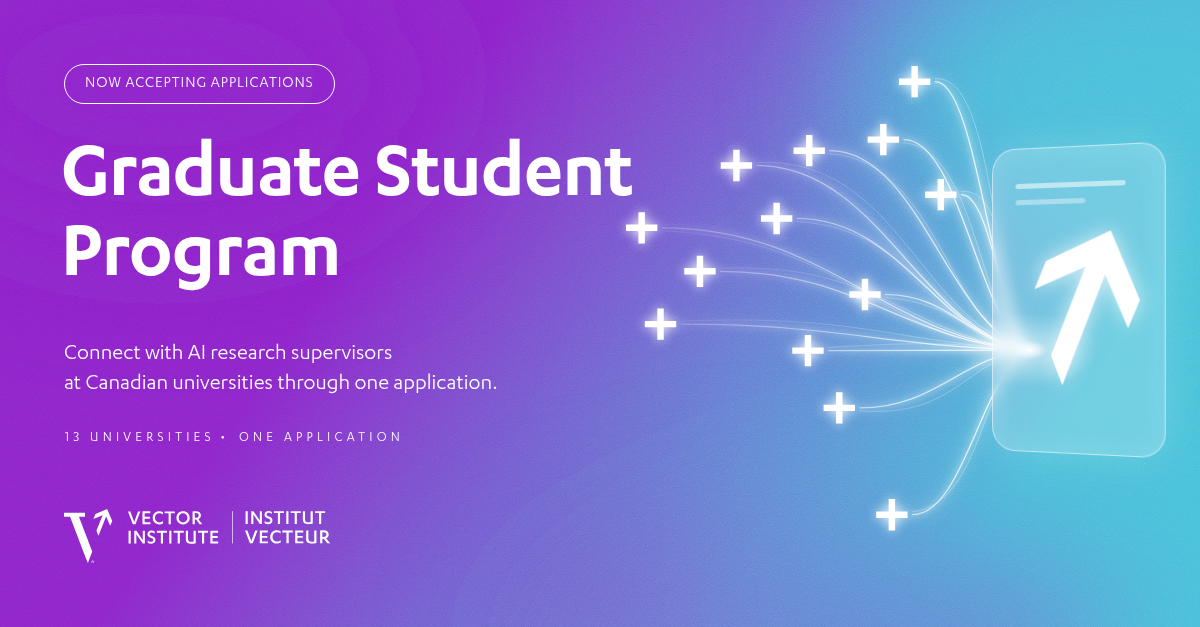
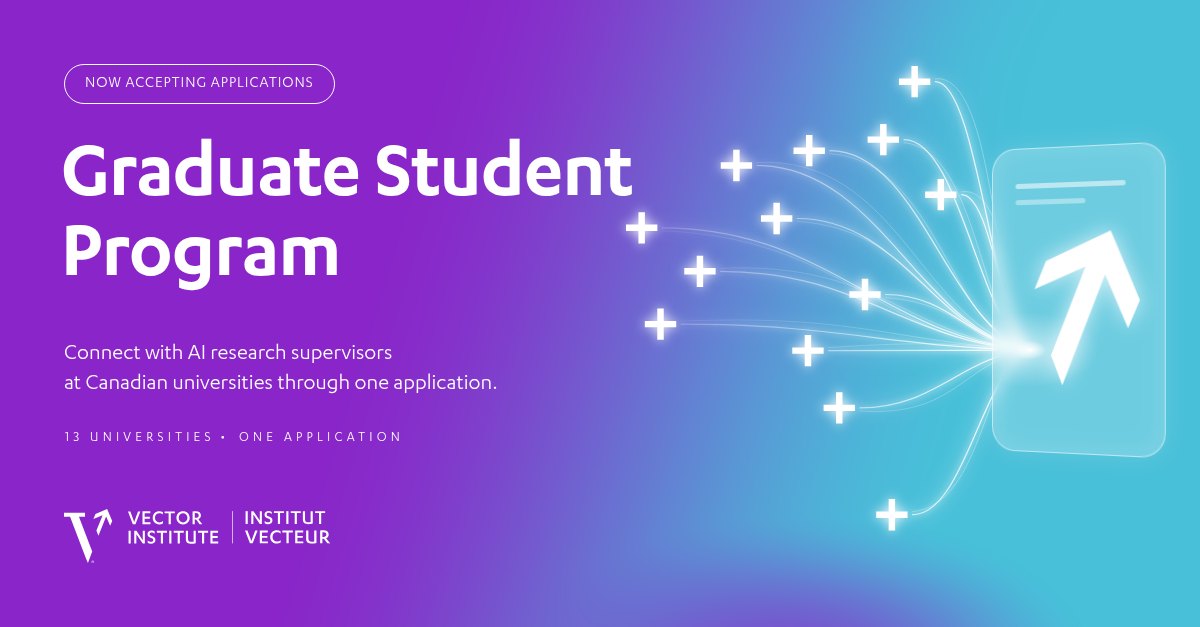
Use exact brand violet/turquoise in Graduate Student Program graphic
The SVG grain overlay and linear-RGB blur shifted the gradient ends to
~#9226CC / ~#50C1DB. The background is now rendered by bg.py as exact
mixes of #8A25C9 and #48C0D9, so solid areas match the brand hex values.

Claude-Session: https://claude.ai/code/session_012MwK1vmEpNzT6vtmv9guo8

diff --git a/graduate-student-program/graphic.html b/graduate-student-program/graphic.html
@@ -5,7 +5,7 @@
 *{margin:0;padding:0;box-sizing:border-box}
 html,body{width:1200px;height:627px;overflow:hidden;background:#8A25C9}
 #c{position:relative;width:1200px;height:627px;font-family:Karbon,sans-serif;color:#fff;overflow:hidden}
-svg.bg,svg.fx{position:absolute;inset:0}
+.bg,svg.fx{position:absolute;inset:0}
 .pill{position:absolute;left:64px;top:64px;height:40px;padding:0 20px;border:1.5px solid #fff;border-radius:20px;
   display:flex;align-items:center;font-size:16px;letter-spacing:.06em;font-weight:400}
 h1{position:absolute;left:61px;top:140px;font-weight:600;font-size:82px;line-height:.98;letter-spacing:-.012em}
@@ -16,28 +16,11 @@ h1{position:absolute;left:61px;top:140px;font-weight:600;font-size:82px;line-hei
 .stage{position:absolute;left:992px;top:150px;width:176px;height:300px;perspective:900px}
 .card{width:100%;height:100%;border-radius:24px;background:rgba(255,255,255,.2);
   border:1.5px solid rgba(255,255,255,.55);transform:rotateY(-16deg);transform-origin:0 50%;
-  box-shadow:0 0 40px rgba(255,255,255,.18), inset 0 0 30px rgba(255,255,255,.12);backdrop-filter:blur(6px)}
+  box-shadow:0 0 22px rgba(255,255,255,.14), inset 0 0 30px rgba(255,255,255,.12);backdrop-filter:blur(6px)}
 .card .ln{position:absolute;left:24px;height:5px;border-radius:3px;background:rgba(255,255,255,.55)}
 .card svg{position:absolute;left:44px;top:82px;width:106px;filter:drop-shadow(0 0 10px rgba(255,255,255,.7))}
 </style></head><body><div id="c">
-<svg class="bg" viewBox="0 0 1200 627" width="1200" height="627">
- <defs>
-  <linearGradient id="g" x1="0" y1="0" x2="1" y2="0.35">
-   <stop offset="0" stop-color="#8A25C9"/><stop offset=".38" stop-color="#8A25C9"/><stop offset="1" stop-color="#48C0D9"/>
-  </linearGradient>
-  <filter id="soft" x="-50%" y="-50%" width="200%" height="200%"><feGaussianBlur stdDeviation="70"/></filter>
-  <filter id="grain"><feTurbulence type="fractalNoise" baseFrequency=".9" numOctaves="2" seed="7" stitchTiles="stitch"/>
-   <feColorMatrix values="1 0 0 0 0  1 0 0 0 0  1 0 0 0 0  0 0 0 0 1"/></filter>
- </defs>
- <rect width="1200" height="627" fill="url(#g)"/>
- <g filter="url(#soft)">
-  <ellipse cx="1130" cy="90" rx="260" ry="170" fill="#48C0D9" opacity=".95"/>
-  <ellipse cx="820" cy="640" rx="300" ry="120" fill="#8A25C9" opacity=".75"/>
-  <path d="M560 700 C 760 520, 900 460, 1240 520 L1240 700Z" fill="#48C0D9" opacity=".55"/>
-  <ellipse cx="160" cy="80" rx="260" ry="150" fill="#8A25C9" opacity=".9"/>
- </g>
- <rect width="1200" height="627" filter="url(#grain)" opacity=".16" style="mix-blend-mode:overlay"/>
-</svg>
+<img class="bg" src="bg@2x.png" width="1200" height="627" alt="">
 <svg class="fx" viewBox="0 0 1200 627" width="1200" height="627">
  <defs>
   <linearGradient id="t" gradientUnits="userSpaceOnUse" x1="640" y1="0" x2="1030" y2="0">

diff --git a/graduate-student-program/build.py b/graduate-student-program/build.py
@@ -66,7 +66,7 @@ html = f'''<!doctype html><html><head><meta charset="utf-8"><title>Graduate Stud
 *{{margin:0;padding:0;box-sizing:border-box}}
 html,body{{width:{W}px;height:{H}px;overflow:hidden;background:#8A25C9}}
 #c{{position:relative;width:{W}px;height:{H}px;font-family:Karbon,sans-serif;color:#fff;overflow:hidden}}
-svg.bg,svg.fx{{position:absolute;inset:0}}
+.bg,svg.fx{{position:absolute;inset:0}}
 .pill{{position:absolute;left:64px;top:64px;height:40px;padding:0 20px;border:1.5px solid #fff;border-radius:20px;
   display:flex;align-items:center;font-size:16px;letter-spacing:.06em;font-weight:400}}
 h1{{position:absolute;left:61px;top:140px;font-weight:600;font-size:82px;line-height:.98;letter-spacing:-.012em}}
@@ -77,28 +77,11 @@ h1{{position:absolute;left:61px;top:140px;font-weight:600;font-size:82px;line-he
 .stage{{position:absolute;left:992px;top:150px;width:176px;height:300px;perspective:900px}}
 .card{{width:100%;height:100%;border-radius:24px;background:rgba(255,255,255,.2);
   border:1.5px solid rgba(255,255,255,.55);transform:rotateY(-16deg);transform-origin:0 50%;
-  box-shadow:0 0 40px rgba(255,255,255,.18), inset 0 0 30px rgba(255,255,255,.12);backdrop-filter:blur(6px)}}
+  box-shadow:0 0 22px rgba(255,255,255,.14), inset 0 0 30px rgba(255,255,255,.12);backdrop-filter:blur(6px)}}
 .card .ln{{position:absolute;left:24px;height:5px;border-radius:3px;background:rgba(255,255,255,.55)}}
 .card svg{{position:absolute;left:44px;top:82px;width:106px;filter:drop-shadow(0 0 10px rgba(255,255,255,.7))}}
 </style></head><body><div id="c">
-<svg class="bg" viewBox="0 0 {W} {H}" width="{W}" height="{H}">
- <defs>
-  <linearGradient id="g" x1="0" y1="0" x2="1" y2="0.35">
-   <stop offset="0" stop-color="#8A25C9"/><stop offset=".38" stop-color="#8A25C9"/><stop offset="1" stop-color="#48C0D9"/>
-  </linearGradient>
-  <filter id="soft" x="-50%" y="-50%" width="200%" height="200%"><feGaussianBlur stdDeviation="70"/></filter>
-  <filter id="grain"><feTurbulence type="fractalNoise" baseFrequency=".9" numOctaves="2" seed="7" stitchTiles="stitch"/>
-   <feColorMatrix values="1 0 0 0 0  1 0 0 0 0  1 0 0 0 0  0 0 0 0 1"/></filter>
- </defs>
- <rect width="{W}" height="{H}" fill="url(#g)"/>
- <g filter="url(#soft)">
-  <ellipse cx="1130" cy="90" rx="260" ry="170" fill="#48C0D9" opacity=".95"/>
-  <ellipse cx="820" cy="640" rx="300" ry="120" fill="#8A25C9" opacity=".75"/>
-  <path d="M560 700 C 760 520, 900 460, 1240 520 L1240 700Z" fill="#48C0D9" opacity=".55"/>
-  <ellipse cx="160" cy="80" rx="260" ry="150" fill="#8A25C9" opacity=".9"/>
- </g>
- <rect width="{W}" height="{H}" filter="url(#grain)" opacity=".16" style="mix-blend-mode:overlay"/>
-</svg>
+<img class="bg" src="bg@2x.png" width="{W}" height="{H}" alt="">
 <svg class="fx" viewBox="0 0 {W} {H}" width="{W}" height="{H}">
  <defs>
   <linearGradient id="t" gradientUnits="userSpaceOnUse" x1="640" y1="0" x2="{CX}" y2="0">

diff --git a/graduate-student-program/bg.py b/graduate-student-program/bg.py
@@ -1,0 +1,32 @@
+"""Render the violet -> turquoise background as exact brand-colour mixes.
+
+Every pixel is violet + t * (turquoise - violet) for some t in [0, 1], so the solid
+areas are exactly #8A25C9 / #48C0D9 (no browser gradient dithering or filter drift).
+"""
+import pathlib
+import numpy as np
+from PIL import Image
+
+VIOLET = np.array([0x8A, 0x25, 0xC9], float)
+TURQ = np.array([0x48, 0xC0, 0xD9], float)
+W, H, K = 1200, 627, 2                      # rendered at 2x
+
+y, x = np.mgrid[0:H*K, 0:W*K] / K + 0.5 / K
+
+def smooth(e0, e1, v):
+    v = np.clip((v - e0) / (e1 - e0), 0, 1)
+    return v * v * (3 - 2 * v)
+
+def bump(cx, cy, rx, ry):
+    """Soft blob that is exactly 0 outside its ellipse."""
+    d = ((x - cx) / rx) ** 2 + ((y - cy) / ry) ** 2
+    return np.clip(1 - d, 0, 1) ** 2
+
+t = smooth(0.36, 0.92, (x + 0.30 * y) / W)              # diagonal base gradient
+t = t + (1 - t) * bump(1130, 90, 330, 250)              # turquoise glow, top right
+t = t + (1 - t) * 0.55 * bump(1080, 660, 420, 170)      # turquoise sweep, bottom right
+t = t * (1 - 0.7 * bump(800, 660, 300, 150))            # violet pool, bottom middle
+
+img = VIOLET + t[..., None] * (TURQ - VIOLET)
+out = pathlib.Path(__file__).parent / 'bg@2x.png'
+Image.fromarray(np.rint(img).astype(np.uint8)).save(out, optimize=True)
